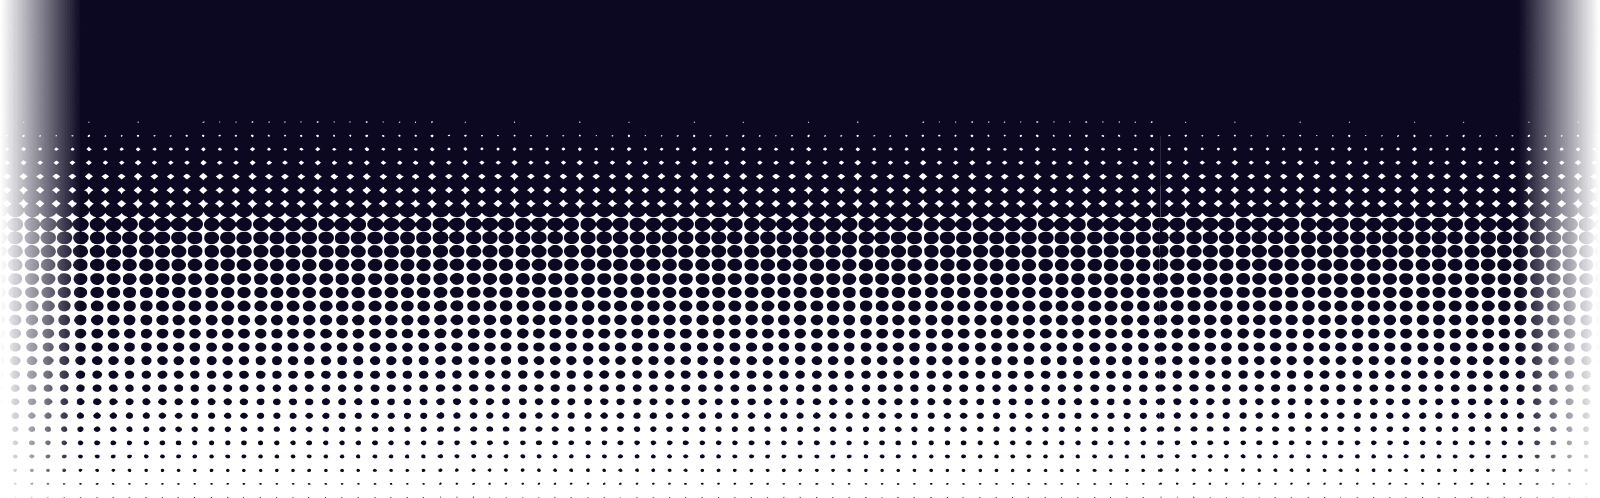
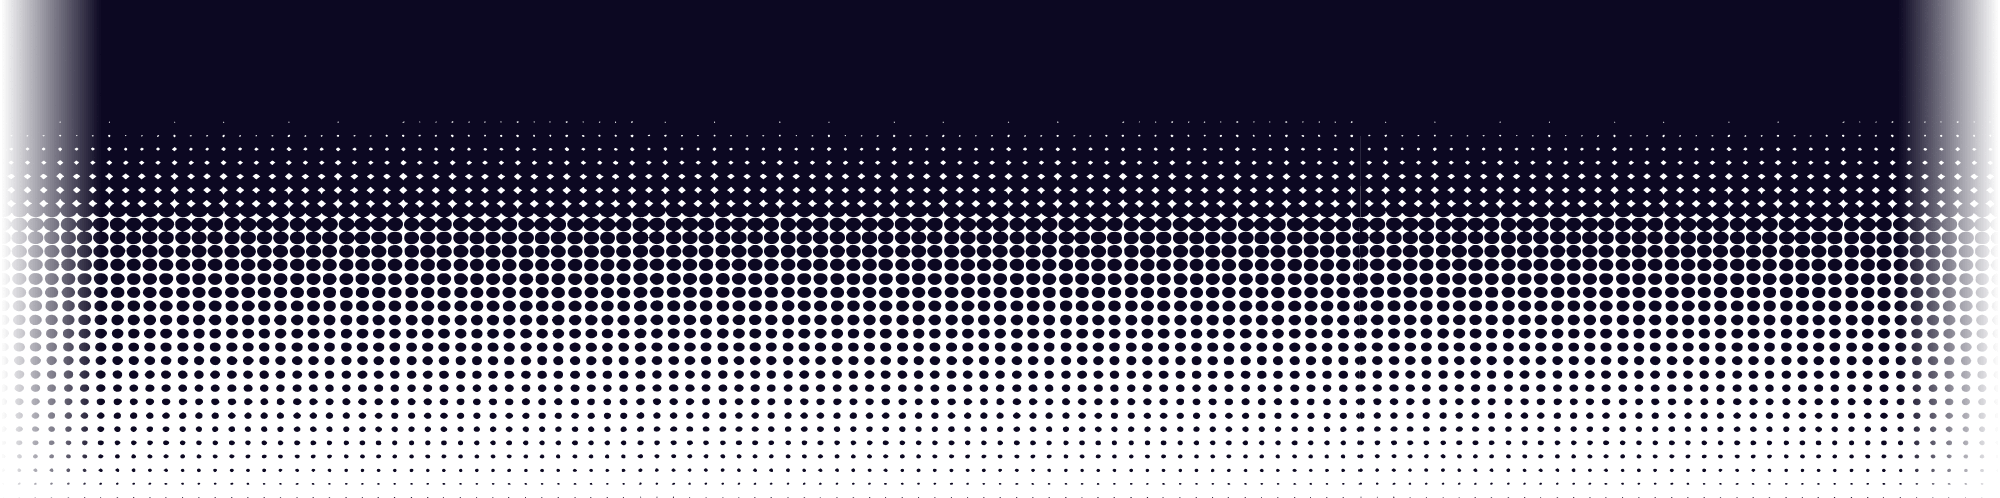
increase bg graphic width

Changed region(s): [[0.0, 0.2711, 1.0, 0.9639], [0.7188, 0.994, 0.75, 1.0]]

diff --git a/frontend/src/styles/_components.scss b/frontend/src/styles/_components.scss
@@ -41,7 +41,7 @@
 }
 
 .bg-container {
-  width: 100rem;
+  width: 125rem;
 }
 
 .nav-notifications {
@@ -57,8 +57,4 @@
 .nav-notifications:hover .nav-notifications-content {
   display: block;
   opacity: 1;
-}
-
-.bg-container {
-  width: 100rem;
 }